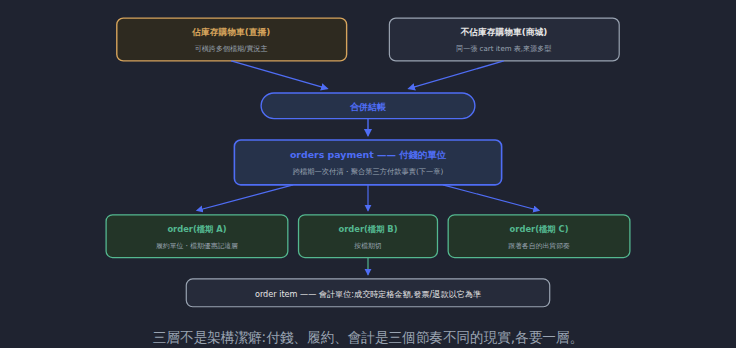
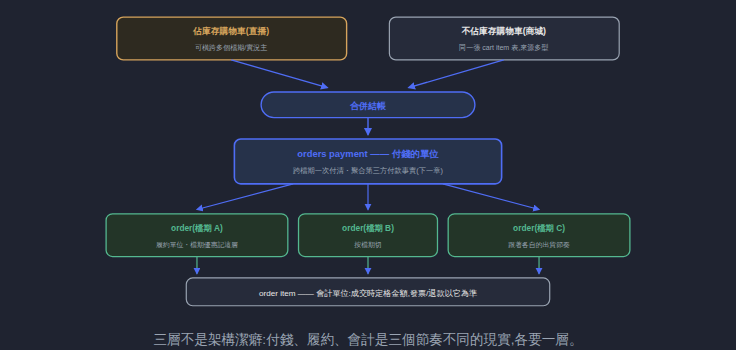
補上 #6 cart→order 的轉移機制,並修正狀態欄位的語意走樣
review #6 rezero-cart-order 的三個修正:

1. 章名叫「購物車到訂單」,但正文沒講 cart→order 怎麼轉移。補上
   口述事實:付款當下新增一筆 order item(狀態轉移用新增記錄表達)、
   與庫存帳本「購物車數量轉訂單數量」同一筆交易、溯源鏈延伸為
   msg → cart item → order item——也讓反思段「一筆交易就完成」的
   引用有了著落,並為下一節的零狀態機主題鋪路。
2. 「大部分跟著事實更新,沒有轉移限制」的 hedge 放錯位置:口述的
   「大略分」修飾的是五類的分法,不是「大部分欄位」才跟事實走。
   改為「每一個都跟著事實更新,沒有轉移限制」。
3. 三層結構圖只有檔期 B 有箭頭連到 order item 列,與 aria-label
   「每張 order 之下是 order item」不符;補上檔期 A、C 的箭頭。

鐵人賽 day09(補段落,預告改指「明天」)、day10(hedge 修正)同步,
day09-1.png 重產。

Claude-Session: https://claude.ai/code/session_01CvSnMJ1vCjbkh11Qu9m2ih

diff --git a/src/content/blog/rezero-cart-order.md b/src/content/blog/rezero-cart-order.md
@@ -53,7 +53,9 @@ draft: false
     <rect x="365" y="200" width="170" height="40" rx="6" fill="#233528" stroke="#54b890" stroke-width="1.2"/>
     <text x="450" y="216" fill="#54b890" font-size="7.8" text-anchor="middle" font-weight="bold">order(檔期 C)</text>
     <text x="450" y="231" fill="#9aa4b2" font-size="6.4" text-anchor="middle">跟著各自的出貨節奏</text>
+    <line x1="130" y1="240" x2="130" y2="256" stroke="#54b890" stroke-width="1.1" marker-end="url(#rco)"/>
     <line x1="290" y1="240" x2="290" y2="256" stroke="#54b890" stroke-width="1.1" marker-end="url(#rco)"/>
+    <line x1="450" y1="240" x2="450" y2="256" stroke="#54b890" stroke-width="1.1" marker-end="url(#rco)"/>
     <rect x="120" y="260" width="340" height="26" rx="6" fill="#262b3a" stroke="#9aa4b2" stroke-width="1.1"/>
     <text x="290" y="277" fill="#e6e6e6" font-size="7.6" text-anchor="middle">order item —— 會計單位:成交時定格金額,發票/退款以它為準</text>
   </svg>
@@ -66,9 +68,11 @@ draft: false
 - **order 是履約的單位,按檔期切。** 代購的貨跟著檔期到、出貨跟著檔期走,售後的節奏天生以檔期為界;檔期限定的優惠券也記在這層。
 - **order item 是會計的單位。** 成交那一刻定格金額——發票、退款、對帳,全部站在這個不再變動的數字上。
 
+而「購物車**到**訂單」這個動作本身的形狀,已經預告了下一節:結帳不是去改 cart item 的狀態——付款當下**新增一筆 order item**,和庫存帳本上「購物車數量轉訂單數量」在**同一筆交易**內完成。狀態轉移用**新增記錄**表達,溯源鏈因此自然多接一段:**msg → cart item → order item**,任何一筆成交都能一路回溯到當初那則留言。
+
 ## 訂單的「狀態」:五個欄位,零個狀態機
 
-教科書會教你給訂單畫一張漂亮的狀態機:建立 → 待付款 → 已付款 → 備貨 → 出貨 → 完成。當年的系統不是這樣——訂單的「狀態」是**五個各自獨立的欄位**:付款狀態、開發票狀態、退款狀態、物流狀態、客服標記。大部分**跟著事實更新,沒有轉移限制**。
+教科書會教你給訂單畫一張漂亮的狀態機:建立 → 待付款 → 已付款 → 備貨 → 出貨 → 完成。當年的系統不是這樣——訂單的「狀態」是**五個各自獨立的欄位**:付款狀態、開發票狀態、退款狀態、物流狀態、客服標記——每一個都**跟著事實更新,沒有轉移限制**。
 
 <figure style="margin:1.5rem 0;text-align:center;">
   <svg viewBox="0 0 580 252" role="img" aria-label="單一狀態機與多欄位狀態的對比。左側打叉:把付款、發票、退款、物流、客服五個維度塞進一台狀態機,狀態數是五個維度的笛卡兒積,數百個組合各需定義轉移規則,而現實中主播想改就改,模型必輸。右側打勾:一張 order 上五個正交的狀態欄位,各自跟著自己的事實來源更新——付款狀態跟付款事實、發票狀態跟開票回執、退款狀態跟退款事實、物流狀態跟物流商回報、客服標記跟客服操作;只記錄、不強制。" style="width:100%;max-width:620px;height:auto;margin:0 auto;">

diff --git a/docs/ironman/day09.md b/docs/ironman/day09.md
@@ -20,6 +20,8 @@
 - **order 是履約的單位,按檔期切。** 代購的貨跟著檔期到、出貨跟著檔期走,售後的節奏天生以檔期為界;檔期限定的優惠券也記在這層。
 - **order item 是會計的單位。** 成交那一刻定格金額——發票、退款、對帳,全部站在這個不再變動的數字上。
 
+而「購物車**到**訂單」這個動作本身的形狀,已經預告了明天的主題:結帳不是去改 cart item 的狀態——付款當下**新增一筆 order item**,和庫存帳本上「購物車數量轉訂單數量」在**同一筆交易**內完成。狀態轉移用**新增記錄**表達,溯源鏈因此自然多接一段:**msg → cart item → order item**,任何一筆成交都能一路回溯到當初那則留言。
+
 ## 價格的生命週期:承諾之前查事實,承諾之後不再變
 
 價格在這個系統裡有一條清楚的生命線:

diff --git a/docs/ironman/day10.md b/docs/ironman/day10.md
@@ -4,7 +4,7 @@
 
 ## 訂單的「狀態」:五個欄位,零個狀態機
 
-教科書會教你給訂單畫一張漂亮的狀態機:建立 → 待付款 → 已付款 → 備貨 → 出貨 → 完成。當年的系統不是這樣——訂單的「狀態」是**五個各自獨立的欄位**:付款狀態、開發票狀態、退款狀態、物流狀態、客服標記。大部分**跟著事實更新,沒有轉移限制**。
+教科書會教你給訂單畫一張漂亮的狀態機:建立 → 待付款 → 已付款 → 備貨 → 出貨 → 完成。當年的系統不是這樣——訂單的「狀態」是**五個各自獨立的欄位**:付款狀態、開發票狀態、退款狀態、物流狀態、客服標記——每一個都**跟著事實更新,沒有轉移限制**。
 
 ![五個維度硬塞進一台狀態機,狀態數是笛卡兒積;正交地存,各自跟著自己的事實走。](day10-1.png)
 
